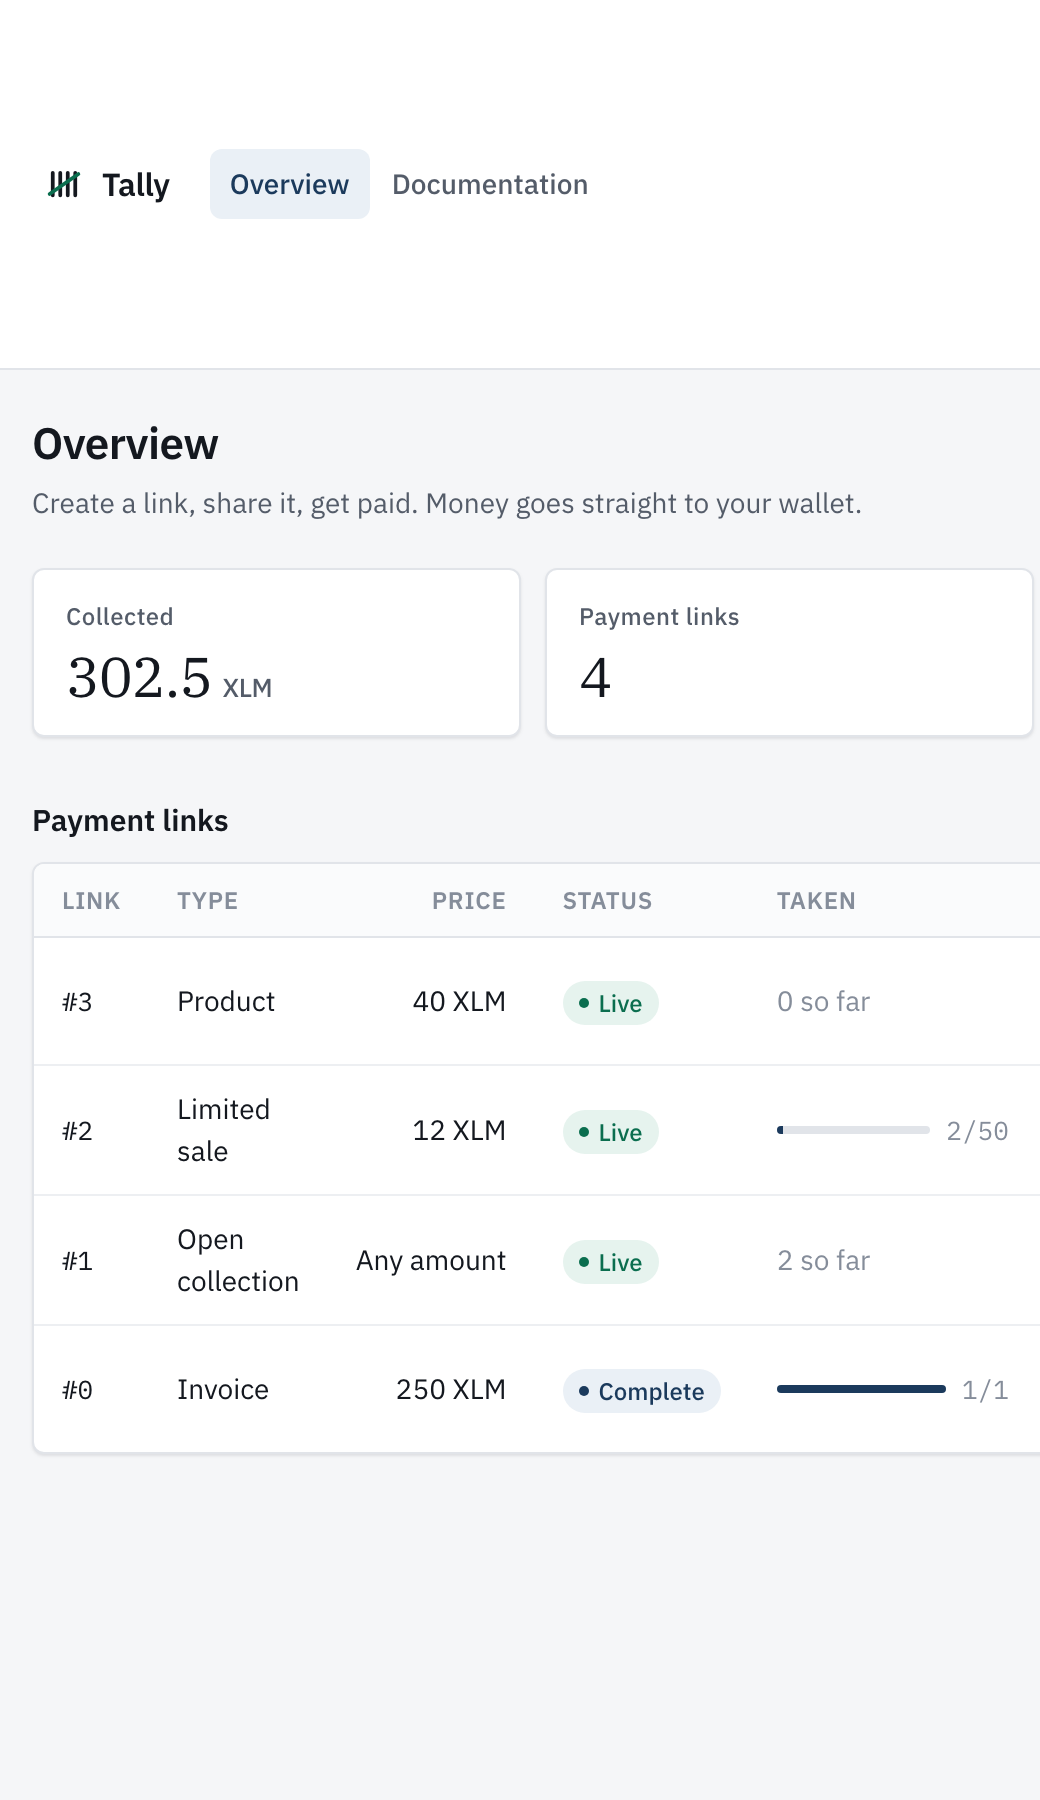
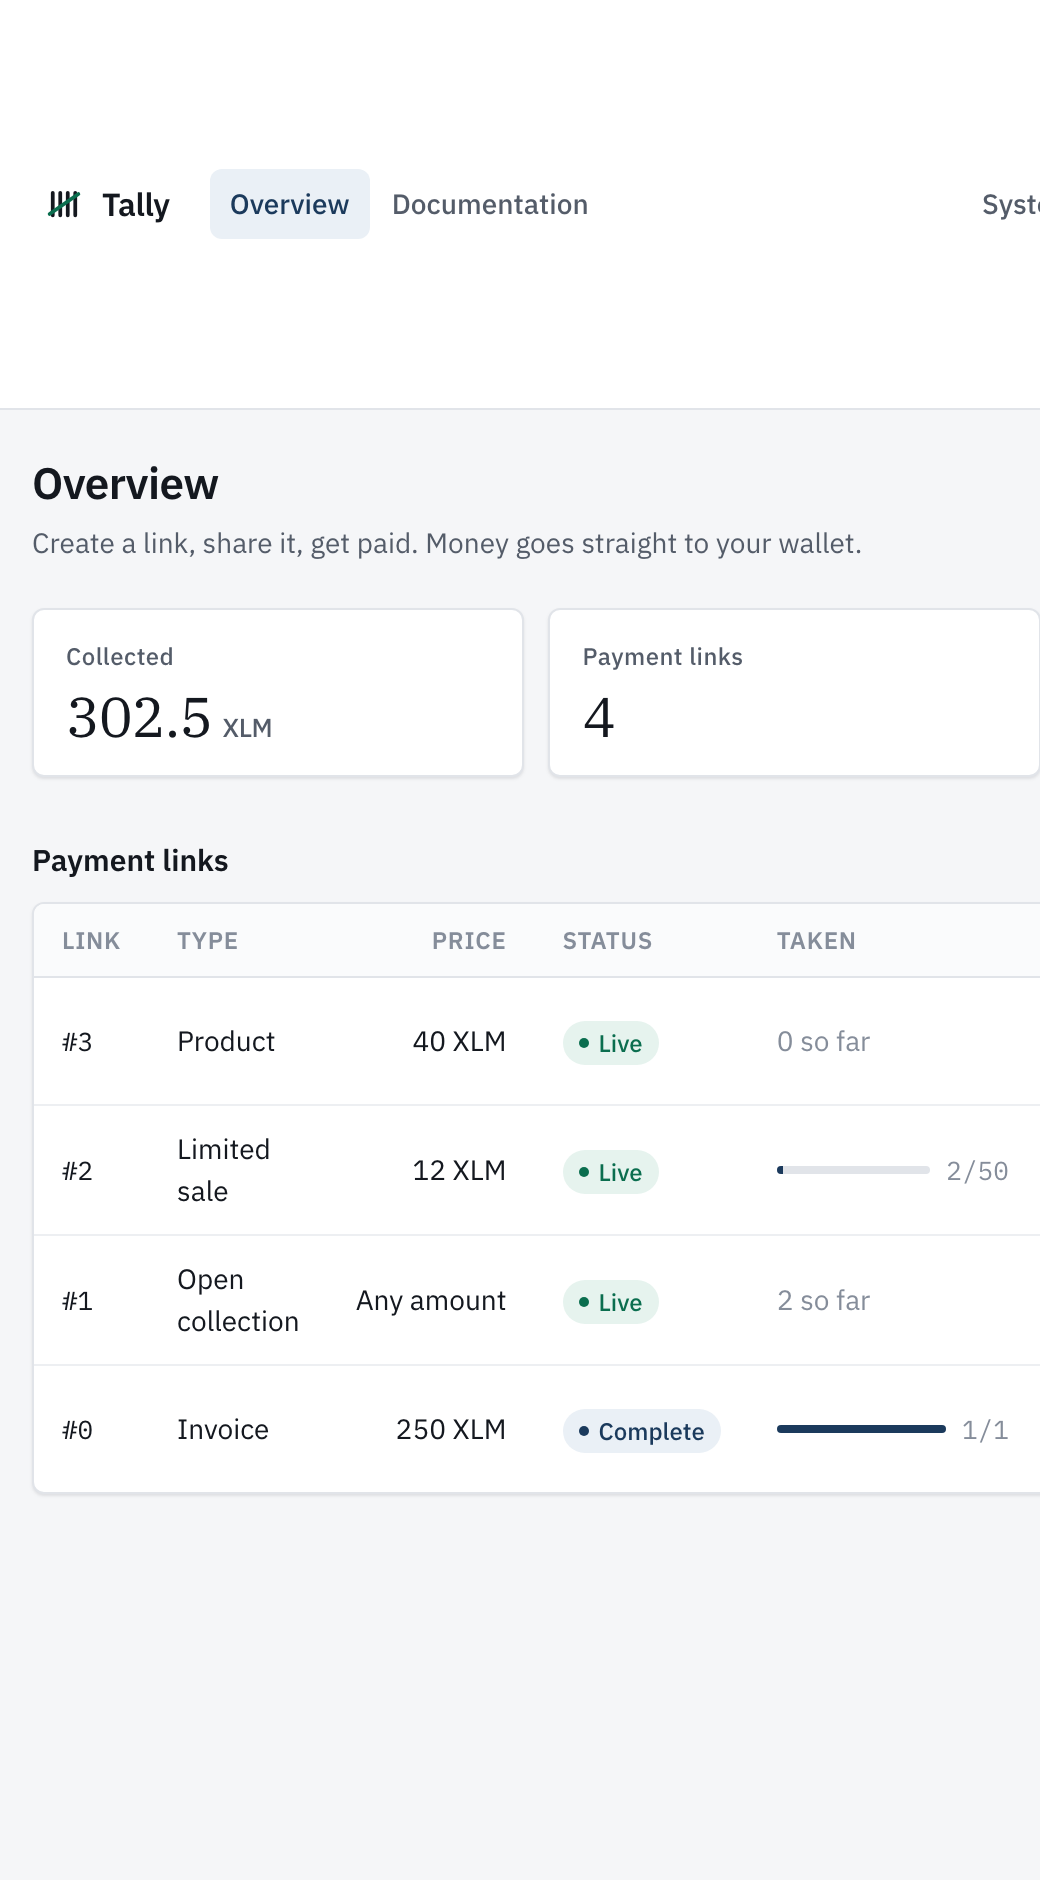
docs: show the dashboard in both themes

diff --git a/README.md b/README.md
@@ -51,7 +51,15 @@ asking, how much, and nothing else.
   <img src="docs/assets/checkout.png" alt="The Tally checkout page showing a 40 XLM payment request" width="420">
 </p>
 
-Screenshots are the live testnet registry, seen without a wallet connected.
+It follows the reader's system theme, and the choice can be overridden:
+
+<p align="center">
+  <img src="docs/assets/dashboard-dark.png" alt="The same dashboard in dark mode" width="100%">
+</p>
+
+Screenshots are the live testnet registry, seen without a wallet connected. A
+merchant's record is public on chain, so `?merchant=<address>` renders it
+read-only — handy for checking takings on a phone.
 
 ## One primitive, four products
 
@@ -111,6 +119,7 @@ Deploy your own registry:
 | [User guide](docs/user-guide.md) | For merchants and for the people paying them |
 | [Growth report](docs/growth.md) | The monthly numbers, with the commands to reproduce them |
 | [User feedback](docs/onboarding/README.md) | Form spec and how a user is counted as verified |
+| [Technical note](docs/blog/a-payment-contract-that-holds-nothing.md) | Why this contract holds nothing, and what that costs |
 
 ## Testing
 
@@ -157,7 +166,7 @@ Honest about what is done and what is not.
 | Monthly growth report | ✅ [first period recorded](docs/growth.md) |
 | Product improvement commit links | ✅ |
 | Social media growth, update posts | ⏳ |
-| Community contribution | ⏳ |
+| Community contribution | ✅ [written](docs/blog/a-payment-contract-that-holds-nothing.md); ⏳ awaiting publication |
 
 ## Licence
 
